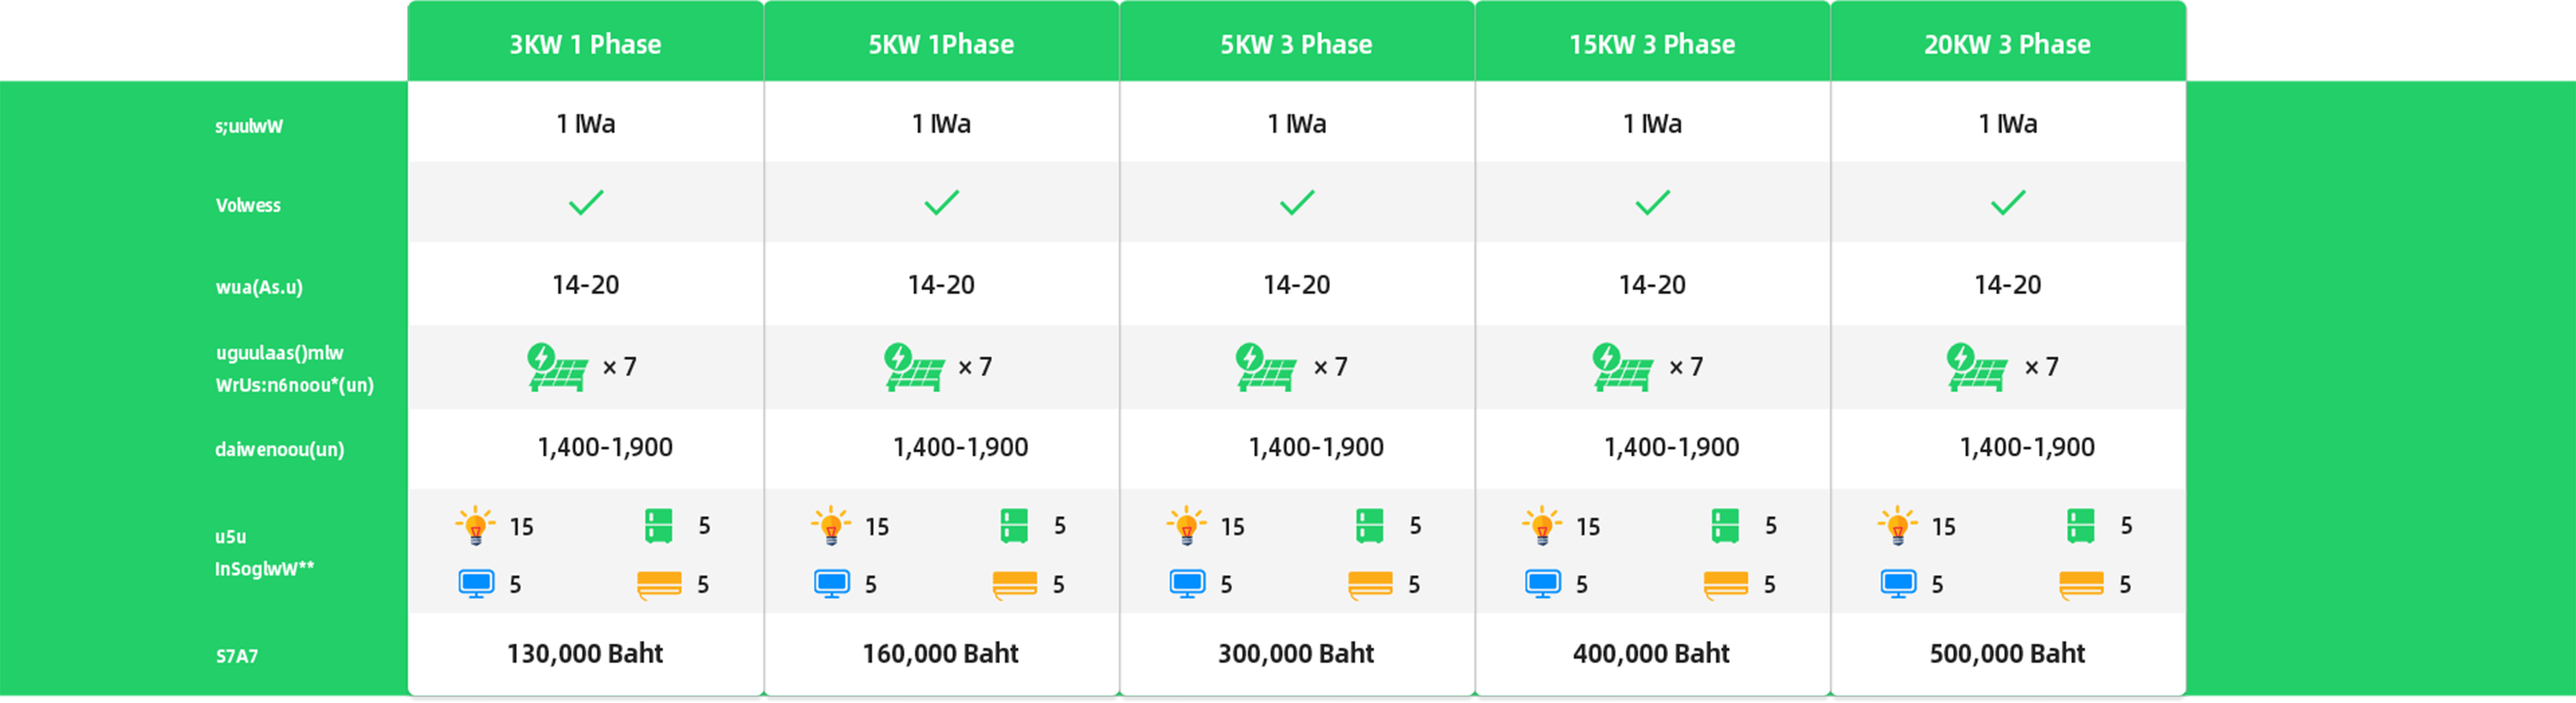
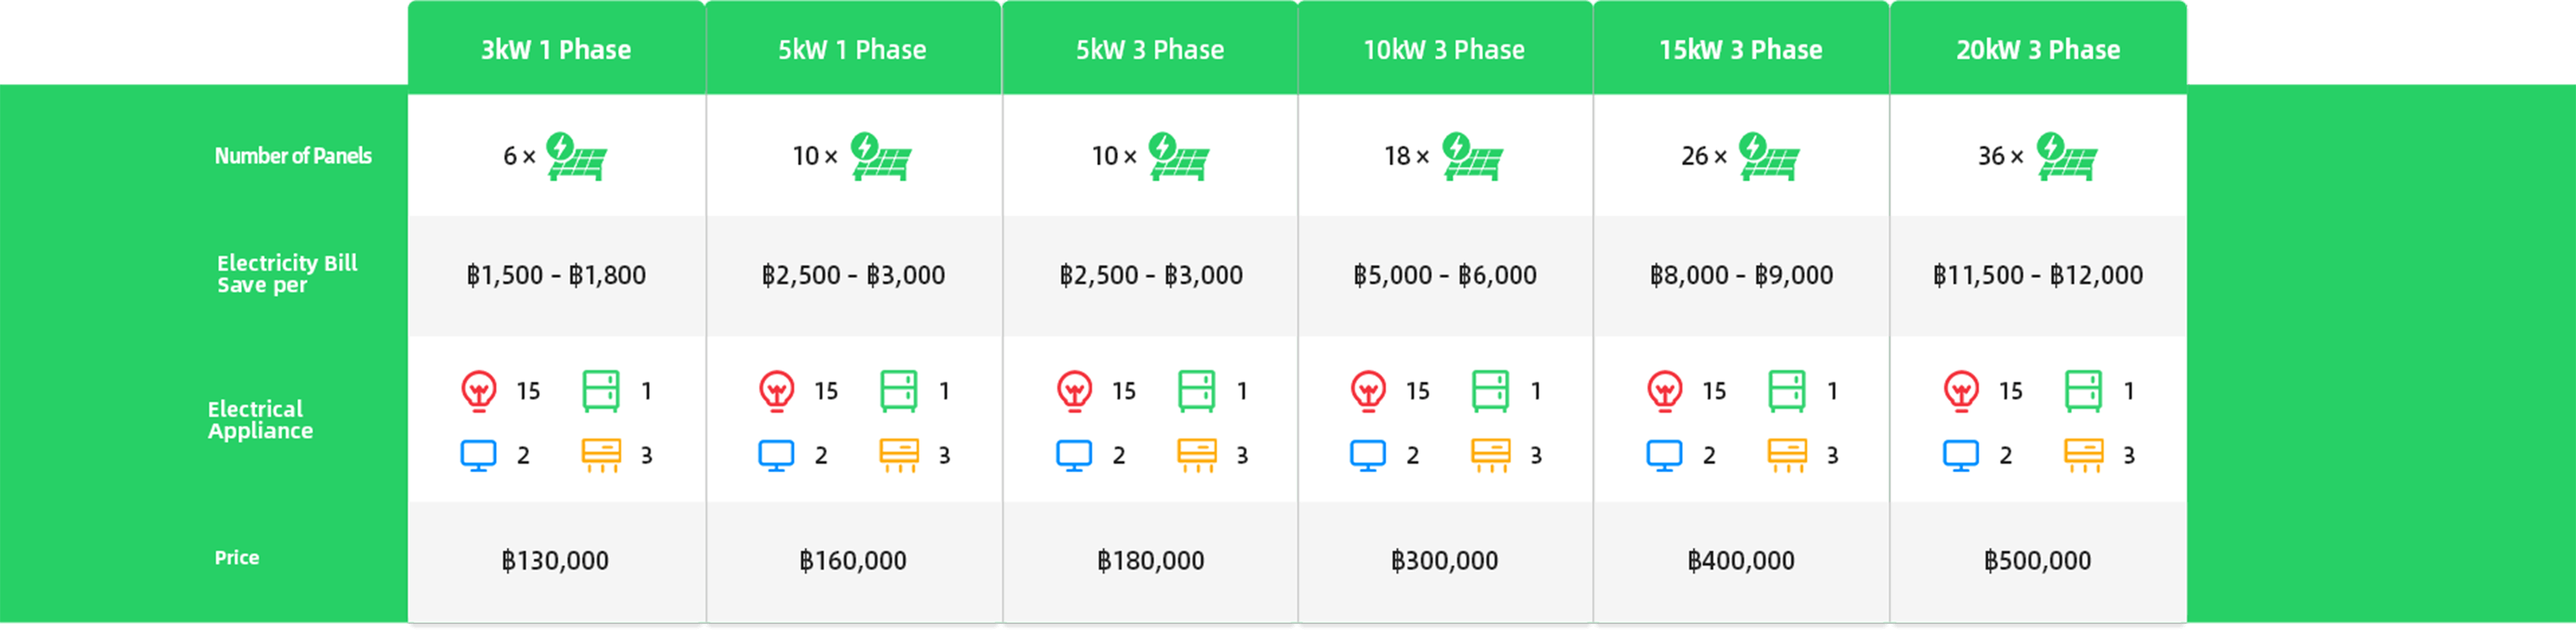
1

diff --git a/src/pages/HomePage.jsx b/src/pages/HomePage.jsx
@@ -12,7 +12,9 @@ import bannerBgM1Img from '../assets/images/banner-bg1_m.png'
 import bg_2Img from '../assets/images/bg_2.png'
 import bg_3Img from '../assets/images/bg_3.png'
 import dataTableImg from '../assets/images/dataTable.png'
+import dataTable_thImg from '../assets/images/dataTable_th.png'
 import dataTable_mImg from '../assets/images/dataTable_m.png'
+import dataTable_m_thImg from '../assets/images/dataTable_m_th.png'
 import bg1Img from '../assets/images/bg-1.png'
 import menuIcon from '../assets/images/menu_icon.png'
 import home_img from '../assets/images/home_img.png'
@@ -326,8 +328,8 @@ const HomePage = () => {
             <div className='section s3 form-bg'>
               <div className='w-full md:h-screen flex flex-col items-center justify-center pt-[64rem] md:pt-[90rem] pb-[50rem] md:pb-[152rem]'>
                 <div className='title text-[40rem] font-bold'>{t('s3.t1')}</div>
-                <img className='hidden md:block w-full mt-[90rem]' src={dataTableImg} alt='' />
-                <img className='block md:hidden w-[622rem] mt-[48rem]' src={dataTable_mImg} alt='' />
+                <img className='hidden md:block w-full mt-[90rem]' src={i18n.language === 'th' ? dataTable_thImg : dataTableImg} alt='' />
+                <img className='block md:hidden w-[622rem] mt-[48rem]' src={i18n.language === 'th' ? dataTable_m_thImg : dataTable_mImg} alt='' />
               </div>
             </div>
 

diff --git a/src/pages/Privacy.jsx b/src/pages/Privacy.jsx
@@ -41,7 +41,7 @@ const HomePage = () => {
   useEffect(() => {
     window.addEventListener('resize', resize)
     resize()
-    i18n.changeLanguage('en')
+    i18n.changeLanguage('th')
   }, [])
 
   return (
